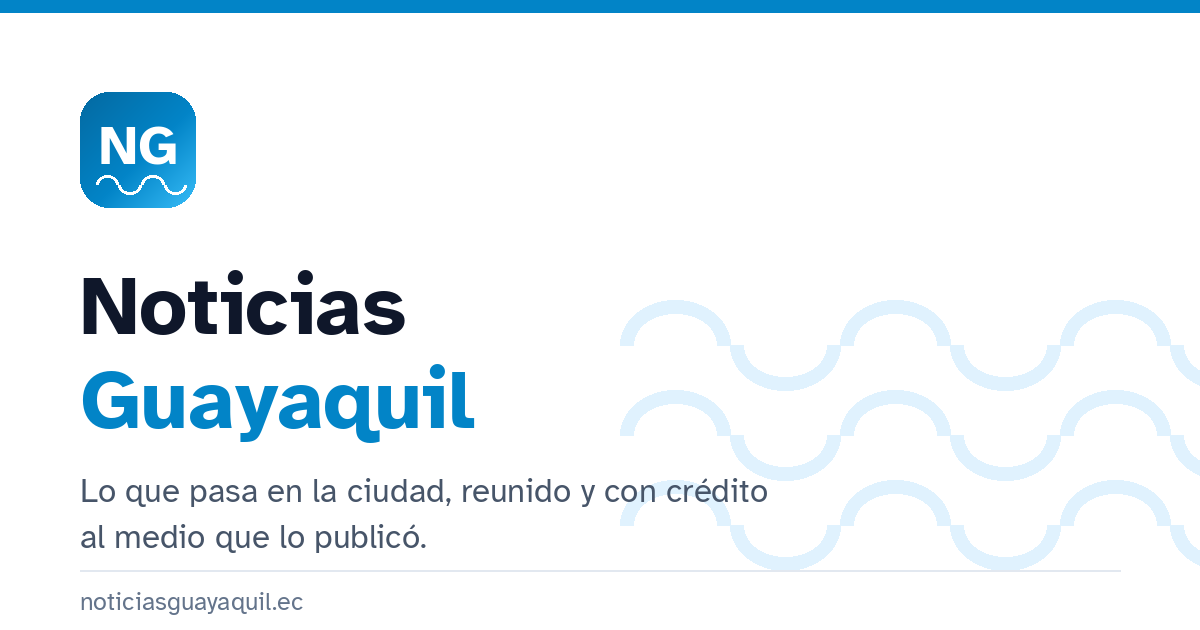
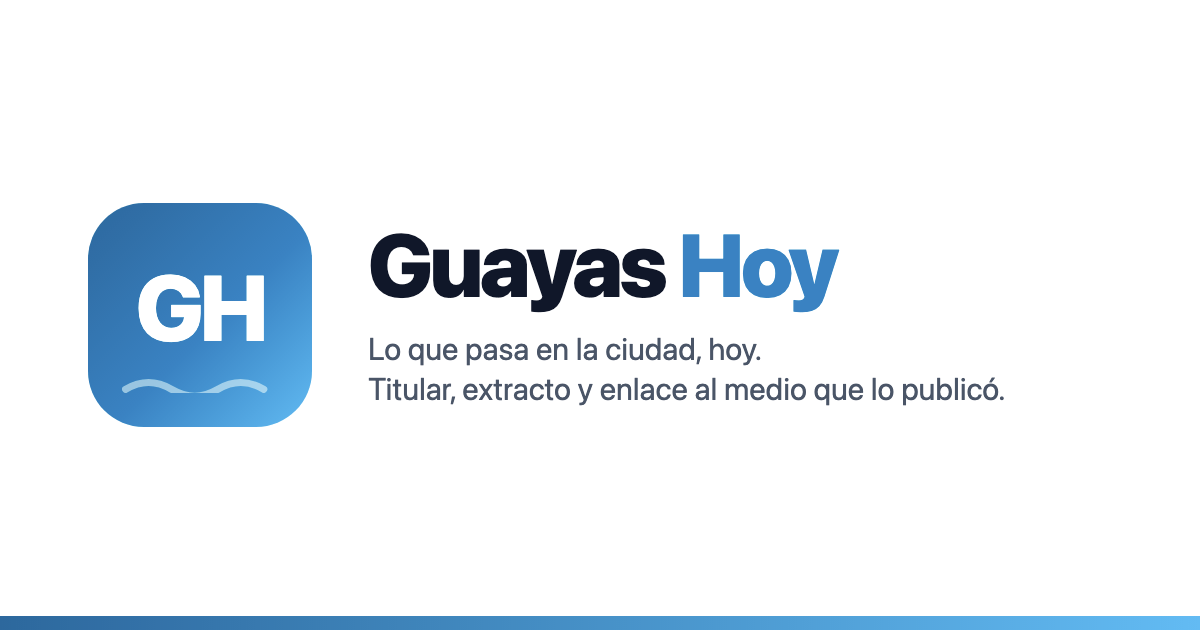
feat: rebrand a Guayas Hoy (guayashoy.com)
El dominio final es guayashoy.com. Se ajusta la marca en toda la web:
títulos, meta OG/Twitter, canonical, robots, sitemap y correos.

- Logos SVG nuevos: monograma GH y wordmark «Guayas / Hoy», manteniendo
  el gradiente celeste y el río del logo anterior.
- icon.png, apple-touch-icon.png y og.png regenerados.
- Clave de tema: ngye-theme -> guayashoy-theme.
- API_URL de producción documentada: https://api.guayashoy.com, la misma
  para las dos webs.

SITE_SLUG sigue siendo noticias-guayaquil: es la clave con la que el
backend reparte las notas entre sitios (Site.slug en BD, get_or_create
por slug), no un dominio. Cambiarlo crearía un sitio nuevo y vacío.

Se comentan, sin borrar, los bloques de contacto: el CTA «¿Eres de un
medio?» en Medios, el correo de retiro de contenido en Términos §4 y el
de derechos LOPDP en Privacidad §6. No habrá canal público por ahora.

diff --git a/src/pages/PrivacyPage.tsx b/src/pages/PrivacyPage.tsx
@@ -10,15 +10,15 @@ export function PrivacyPage() {
       title="Política de privacidad"
       updated={UPDATED}
       path="/privacidad"
-      seoTitle="Política de privacidad — Noticias Guayaquil"
-      seoDescription="Qué datos recoge Noticias Guayaquil y cómo los trata, conforme a la Ley Orgánica de Protección de Datos Personales del Ecuador."
-      intro="Noticias Guayaquil no pide registro ni recoge datos personales para funcionar. Esta página explica lo poco que sí se guarda y por qué."
+      seoTitle="Política de privacidad — Guayas Hoy"
+      seoDescription="Qué datos recoge Guayas Hoy y cómo los trata, conforme a la Ley Orgánica de Protección de Datos Personales del Ecuador."
+      intro="Guayas Hoy no pide registro ni recoge datos personales para funcionar. Esta página explica lo poco que sí se guarda y por qué."
       sections={[
         {
           title: '1. Quiénes somos',
           body: (
             <p className="m-0">
-              Noticias Guayaquil es un agregador de noticias de la ciudad. Reunimos titulares
+              Guayas Hoy es un agregador de noticias de la ciudad. Reunimos titulares
               y extractos publicados por medios de comunicación y enlazamos a sus artículos
               originales. No producimos contenido periodístico propio.
             </p>
@@ -46,7 +46,7 @@ export function PrivacyPage() {
             <>
               <p className="m-0">
                 Usamos <code>localStorage</code>, no cookies de seguimiento. Se guardan dos
-                valores: <code>ngye-theme</code> (claro u oscuro) y <code>cookie_consent</code>{' '}
+                valores: <code>guayashoy-theme</code> (claro u oscuro) y <code>cookie_consent</code>{' '}
                 (si ya viste el aviso).
               </p>
               <p className="m-0">
@@ -90,11 +90,14 @@ export function PrivacyPage() {
               La Ley Orgánica de Protección de Datos Personales del Ecuador te da derecho de
               acceso, rectificación, eliminación y oposición sobre tus datos personales. Como
               no tratamos datos que te identifiquen, en la práctica no hay nada que rectificar
-              ni eliminar; aun así, si tienes una consulta escríbenos a{' '}
-              <a href="mailto:hola@noticiasguayaquil.ec" className="text-accent no-underline hover:underline">
-                hola@noticiasguayaquil.ec
+              ni eliminar.
+              {/* Sin canal de contacto público: no hay formulario ni correo de contacto.
+              , aun así, si tienes una consulta escríbenos a{' '}
+              <a href="mailto:hola@guayashoy.com" className="text-accent no-underline hover:underline">
+                hola@guayashoy.com
               </a>
               .
+              */}
             </p>
           ),
         },

diff --git a/index.html b/index.html
@@ -6,36 +6,36 @@
 
     <link rel="icon" type="image/png" href="/img/icon.png" />
     <link rel="apple-touch-icon" href="/img/apple-touch-icon.png" />
-    <link rel="canonical" href="https://noticiasguayaquil.ec/" />
+    <link rel="canonical" href="https://guayashoy.com/" />
 
     <!-- Estos meta existen como plantilla: `scripts/ssg-meta.mjs` los reescribe
          por página en el build, `server.js` los reescribe por nota, y
          `usePageSeo` los actualiza al navegar dentro de la SPA. -->
-    <title>Noticias Guayaquil | Lo que pasa en la ciudad, hoy</title>
+    <title>Guayas Hoy | Lo que pasa en la ciudad, hoy</title>
     <meta name="description" content="Las noticias de Guayaquil de los principales medios de la ciudad, reunidas en un solo lugar. Titulares, extracto y enlace directo al medio que las publicó." />
     <meta name="robots" content="index, follow" />
     <meta name="theme-color" content="#0284c7" />
 
     <meta property="og:type" content="website" />
-    <meta property="og:site_name" content="Noticias Guayaquil" />
+    <meta property="og:site_name" content="Guayas Hoy" />
     <meta property="og:locale" content="es_EC" />
-    <meta property="og:url" content="https://noticiasguayaquil.ec/" />
-    <meta property="og:title" content="Noticias Guayaquil | Lo que pasa en la ciudad, hoy" />
+    <meta property="og:url" content="https://guayashoy.com/" />
+    <meta property="og:title" content="Guayas Hoy | Lo que pasa en la ciudad, hoy" />
     <meta property="og:description" content="Las noticias de Guayaquil de los principales medios de la ciudad, reunidas en un solo lugar." />
-    <meta property="og:image" content="https://noticiasguayaquil.ec/img/og.png" />
+    <meta property="og:image" content="https://guayashoy.com/img/og.png" />
     <meta property="og:image:width" content="1200" />
     <meta property="og:image:height" content="630" />
 
     <meta name="twitter:card" content="summary_large_image" />
-    <meta name="twitter:title" content="Noticias Guayaquil | Lo que pasa en la ciudad, hoy" />
+    <meta name="twitter:title" content="Guayas Hoy | Lo que pasa en la ciudad, hoy" />
     <meta name="twitter:description" content="Las noticias de Guayaquil de los principales medios de la ciudad, reunidas en un solo lugar." />
-    <meta name="twitter:image" content="https://noticiasguayaquil.ec/img/og.png" />
+    <meta name="twitter:image" content="https://guayashoy.com/img/og.png" />
 
     <!-- Tema: se aplica antes del primer paint para evitar el flash blanco -->
     <script>
       (function () {
         try {
-          if (localStorage.getItem('ngye-theme') === 'dark') {
+          if (localStorage.getItem('guayashoy-theme') === 'dark') {
             document.documentElement.classList.add('dark');
           }
         } catch (e) {}

diff --git a/src/pages/TermsPage.tsx b/src/pages/TermsPage.tsx
@@ -10,15 +10,15 @@ export function TermsPage() {
       title="Términos y condiciones"
       updated={UPDATED}
       path="/terminos"
-      seoTitle="Términos y condiciones — Noticias Guayaquil"
-      seoDescription="Condiciones de uso de Noticias Guayaquil, agregador de noticias de la ciudad, y cómo se trata el contenido de los medios."
-      intro="Al usar Noticias Guayaquil aceptas estas condiciones. La más importante cabe en una línea: el contenido no es nuestro, y por eso siempre te llevamos a quien lo escribió."
+      seoTitle="Términos y condiciones — Guayas Hoy"
+      seoDescription="Condiciones de uso de Guayas Hoy, agregador de noticias de la ciudad, y cómo se trata el contenido de los medios."
+      intro="Al usar Guayas Hoy aceptas estas condiciones. La más importante cabe en una línea: el contenido no es nuestro, y por eso siempre te llevamos a quien lo escribió."
       sections={[
         {
           title: '1. Qué es este sitio',
           body: (
             <p className="m-0">
-              Noticias Guayaquil es un agregador. Reunimos titulares y extractos breves
+              Guayas Hoy es un agregador. Reunimos titulares y extractos breves
               publicados por medios de comunicación, indicamos siempre el medio de origen y
               enlazamos a su artículo completo. No somos un medio de comunicación ni
               elaboramos contenido periodístico.
@@ -62,11 +62,14 @@ export function TermsPage() {
           body: (
             <p className="m-0">
               Cualquier medio puede pedir que dejemos de mostrar su contenido y lo retiramos
-              el mismo día, sin condiciones ni contrapartidas. Basta con escribir a{' '}
-              <a href="mailto:hola@noticiasguayaquil.ec" className="text-accent no-underline hover:underline">
-                hola@noticiasguayaquil.ec
+              el mismo día, sin condiciones ni contrapartidas.
+              {/* Sin canal de contacto público: no hay formulario ni correo de contacto.
+              Basta con escribir a{' '}
+              <a href="mailto:hola@guayashoy.com" className="text-accent no-underline hover:underline">
+                hola@guayashoy.com
               </a>{' '}
               desde un correo del medio.
+              */}
             </p>
           ),
         },

diff --git a/src/pages/SourcesPage.tsx b/src/pages/SourcesPage.tsx
@@ -37,9 +37,9 @@ export function SourcesPage() {
   const { data: sources } = useSources();
 
   usePageSeo({
-    title: 'Medios y cómo trabajamos — Noticias Guayaquil',
+    title: 'Medios y cómo trabajamos — Guayas Hoy',
     description:
-      'De qué medios sale el contenido de Noticias Guayaquil y con qué reglas se agrega: solo titular y extracto, enlace al original y salida inmediata a petición.',
+      'De qué medios sale el contenido de Guayas Hoy y con qué reglas se agrega: solo titular y extracto, enlace al original y salida inmediata a petición.',
     path: '/medios',
   });
 
@@ -55,7 +55,7 @@ export function SourcesPage() {
               De dónde sale todo esto.
             </h1>
             <p className="text-muted-foreground text-lg leading-relaxed m-0">
-              Noticias Guayaquil no produce noticias. Reúne lo que publican los medios de
+              Guayas Hoy no produce noticias. Reúne lo que publican los medios de
               la ciudad y del país, y manda al lector de vuelta a ellos.
             </p>
           </header>
@@ -104,6 +104,7 @@ export function SourcesPage() {
             </div>
           </section>
 
+          {/* Sin canal de contacto público: no hay formulario ni correo de contacto.
           <section className="rounded-3xl border border-border bg-surface p-8 md:p-10 mb-8 text-center">
             <h2 className="font-display font-bold text-2xl text-foreground tracking-tight m-0 mb-3">
               ¿Eres de un medio?
@@ -113,12 +114,13 @@ export function SourcesPage() {
               frecuencia, o si quieres que tu medio aparezca aquí.
             </p>
             <a
-              href="mailto:hola@noticiasguayaquil.ec"
+              href="mailto:hola@guayashoy.com"
               className="inline-block rounded-full px-8 py-3 text-sm font-semibold bg-accent text-white no-underline hover:opacity-90 transition-opacity"
             >
-              hola@noticiasguayaquil.ec
+              hola@guayashoy.com
             </a>
           </section>
+          */}
         </div>
       </main>
 

diff --git a/src/pages/ArticlePage.tsx b/src/pages/ArticlePage.tsx
@@ -65,7 +65,7 @@ export function ArticlePage() {
   usePageSeo(
     article
       ? {
-          title: `${article.title} — Noticias Guayaquil`,
+          title: `${article.title} — Guayas Hoy`,
           description: article.excerpt,
           path: `/noticia/${article.slug}`,
           image: article.image_url || undefined,
@@ -209,7 +209,7 @@ export function ArticlePage() {
             <SourceCredit article={article} variant="block" className="mb-6" />
 
             <p className="text-xs text-muted-foreground leading-relaxed m-0">
-              Noticias Guayaquil es un agregador: reproduce el titular y un extracto breve
+              Guayas Hoy es un agregador: reproduce el titular y un extracto breve
               con fines informativos y enlaza al artículo completo. Los derechos sobre el
               texto y las imágenes pertenecen a {article.source.name}.
             </p>

diff --git a/src/pages/HomePage.tsx b/src/pages/HomePage.tsx
@@ -7,7 +7,7 @@ import { NewsFeedSection } from '../components/sections/NewsFeedSection';
 import { usePageSeo } from '../hooks/usePageSeo';
 import { SITE_URL } from '../lib/api';
 
-const TITLE = 'Noticias Guayaquil | Lo que pasa en la ciudad, hoy';
+const TITLE = 'Guayas Hoy | Lo que pasa en la ciudad, hoy';
 const DESCRIPTION =
   'Las noticias de Guayaquil de los principales medios de la ciudad, reunidas en un solo lugar. Titulares, extracto y enlace directo al medio que las publicó.';
 
@@ -21,7 +21,7 @@ export function HomePage() {
       '@context': 'https://schema.org',
       '@type': 'WebSite',
       '@id': `${SITE_URL}/#website`,
-      name: 'Noticias Guayaquil',
+      name: 'Guayas Hoy',
       url: SITE_URL,
       description: DESCRIPTION,
       inLanguage: 'es-EC',

diff --git a/src/components/Footer.tsx b/src/components/Footer.tsx
@@ -49,7 +49,7 @@ export function Footer() {
             <div className="max-w-sm">
               <img
                 src="/img/logo-white.svg"
-                alt="Noticias Guayaquil"
+                alt="Guayas Hoy"
                 className="h-9 w-auto max-w-[190px] select-none mb-4"
               />
               <p className="text-base text-white/50 leading-relaxed m-0">
@@ -93,7 +93,7 @@ export function Footer() {
           </div>
 
           <div className="mt-14 pt-6 border-t border-white/10 text-[11px] uppercase tracking-[0.14em] text-white/45">
-            <p className="m-0">© {YEAR} Noticias Guayaquil</p>
+            <p className="m-0">© {YEAR} Guayas Hoy</p>
           </div>
         </div>
       </div>

diff --git a/src/pages/SectionPage.tsx b/src/pages/SectionPage.tsx
@@ -34,7 +34,7 @@ export function SectionPage() {
   );
 
   usePageSeo({
-    title: `${name} — Noticias Guayaquil`,
+    title: `${name} — Guayas Hoy`,
     description:
       category?.description ||
       `Noticias de ${name} publicadas por los medios de Guayaquil, con crédito y enlace al original.`,
@@ -43,7 +43,7 @@ export function SectionPage() {
       ? {
           '@context': 'https://schema.org',
           '@type': 'CollectionPage',
-          name: `${name} — Noticias Guayaquil`,
+          name: `${name} — Guayas Hoy`,
           url: `${SITE_URL}/seccion/${slug}`,
           inLanguage: 'es-EC',
           mainEntity: {

diff --git a/src/components/news/SourceCredit.tsx b/src/components/news/SourceCredit.tsx
@@ -48,7 +48,7 @@ export function SourceCredit({ article, variant = 'inline', className = '' }: Pr
       </p>
       <p className="font-display font-bold text-lg text-foreground m-0 mb-1">{source.name}</p>
       <p className="text-sm text-muted-foreground m-0 mb-4">
-        Noticias Guayaquil resume y enlaza. El artículo completo, las fotos y los
+        Guayas Hoy resume y enlaza. El artículo completo, las fotos y los
         derechos son de {source.name}.
       </p>
       <div className="flex flex-wrap items-center gap-3">

diff --git a/src/components/Navbar.tsx b/src/components/Navbar.tsx
@@ -78,7 +78,7 @@ export function Navbar() {
       >
         <div className="flex items-center justify-between pl-4 pr-2.5 md:pl-6 md:pr-3 py-2.5 gap-4">
           <Link to="/" className="flex items-center no-underline shrink-0">
-            <img src={logoSrc} alt="Noticias Guayaquil" className="h-9 md:h-10 w-auto select-none" />
+            <img src={logoSrc} alt="Guayas Hoy" className="h-9 md:h-10 w-auto select-none" />
           </Link>
 
           <ul className="hidden lg:flex items-center gap-6 list-none m-0 p-0">

diff --git a/scripts/set-env.js b/scripts/set-env.js
@@ -26,7 +26,7 @@ const env = process.env;
 
 // API_URL vacío = mismo origen. En desarrollo lo cubre el proxy de Vite.
 const apiUrl = (env.API_URL ?? '').replace(/\/$/, '');
-const siteUrl = (env.SITE_URL ?? 'https://noticiasguayaquil.ec').replace(/\/$/, '');
+const siteUrl = (env.SITE_URL ?? 'https://guayashoy.com').replace(/\/$/, '');
 
 // Qué web es esta. El backend alimenta varias y reparte las notas entre ellas,
 // así que sin este slug la API devolvería también las de la otra.

diff --git a/src/index.css b/src/index.css
@@ -34,7 +34,7 @@
   font-display: swap;
 }
 
-/* ─── Noticias Guayaquil — Design Tokens ──────────────────
+/* ─── Guayas Hoy — Design Tokens ──────────────────
    Mismo sistema que el estándar de la casa; cambia la paleta.
    Allí el fondo era negro y el acento morado; aquí el fondo es blanco y el
    acento celeste, porque un periódico se lee de día y en pantallas malas.
